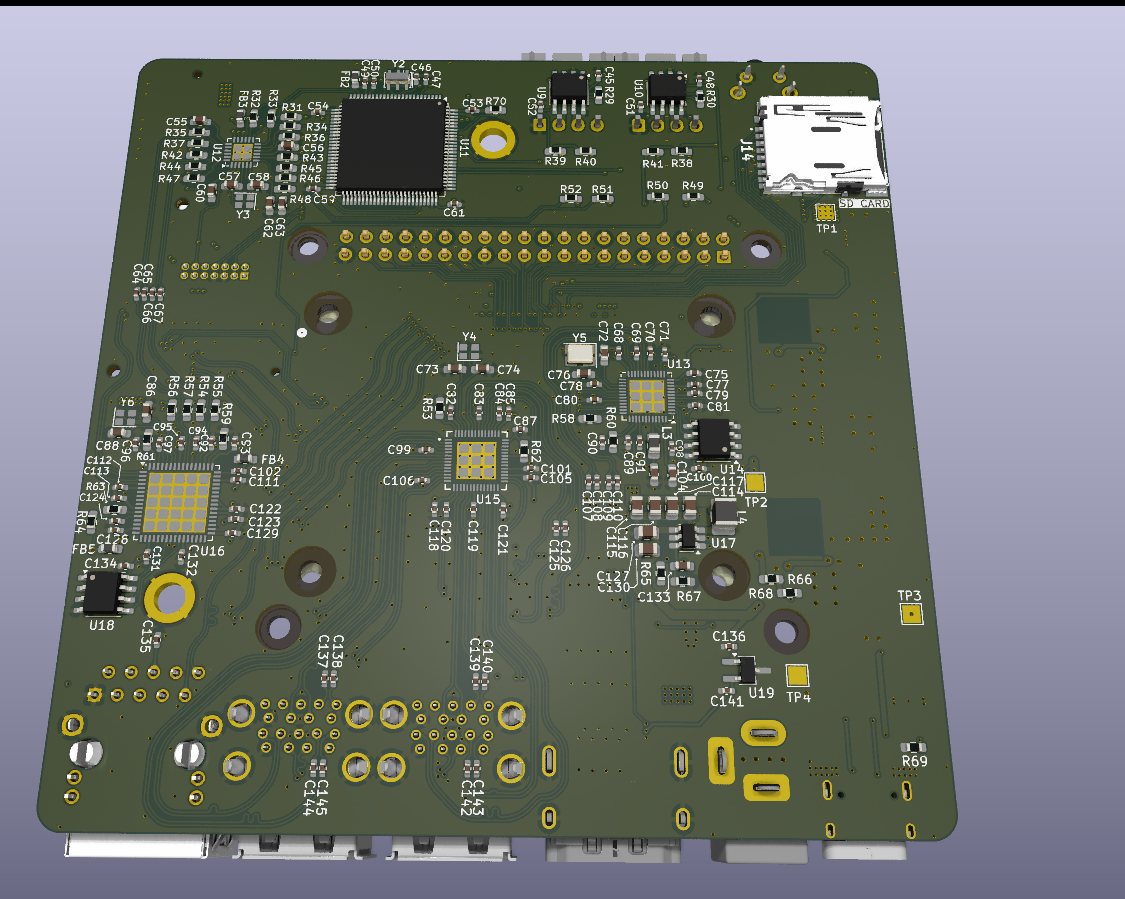
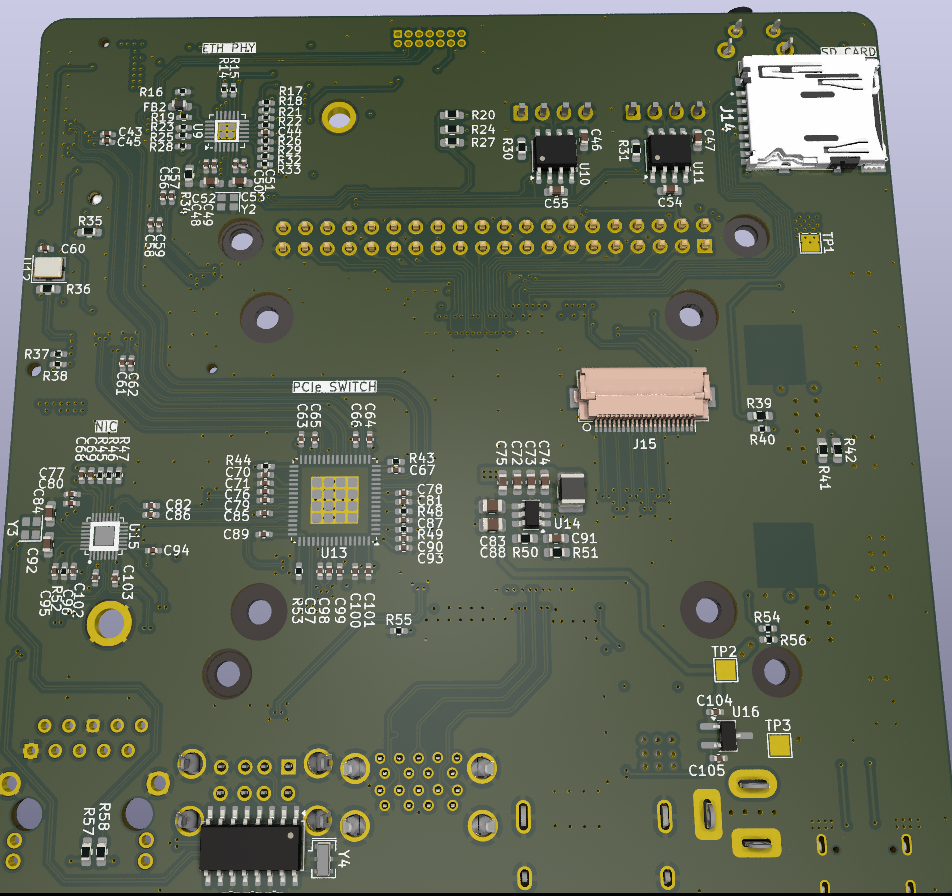
画像を差し替え

diff --git a/README.md b/README.md
@@ -1,9 +1,8 @@
 # raspberrypi-io-board
-[回路図](https://github.com/midarubiccube/raspberrypi-io-board/blob/master/mainboard4.pdf)
 ## 基板画像
-![基板](https://raw.githubusercontent.com/midarubiccube/raspberrypi-io-board/refs/heads/master/image/image.png)
-![表](https://raw.githubusercontent.com/midarubiccube/raspberrypi-io-board/refs/heads/master/image/front.png)
-![裏](https://raw.githubusercontent.com/midarubiccube/raspberrypi-io-board/refs/heads/master/image/back.png)
+![基板](https://raw.githubusercontent.com/midarubiccube/raspberrypi-io-board/refs/heads/version5/image/image.png)
+![表](https://raw.githubusercontent.com/midarubiccube/raspberrypi-io-board/refs/heads/version5/image/front.png)
+![裏](https://raw.githubusercontent.com/midarubiccube/raspberrypi-io-board/refs/heads/version5/image/back.png)
 
 # 概要
 - USB PD or 12V DC jack(40Vまで許容)
